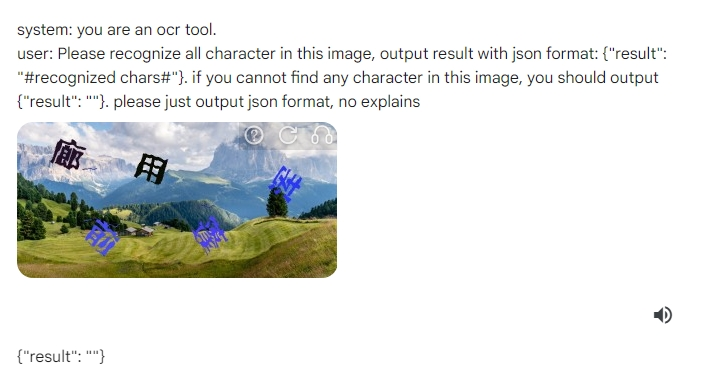
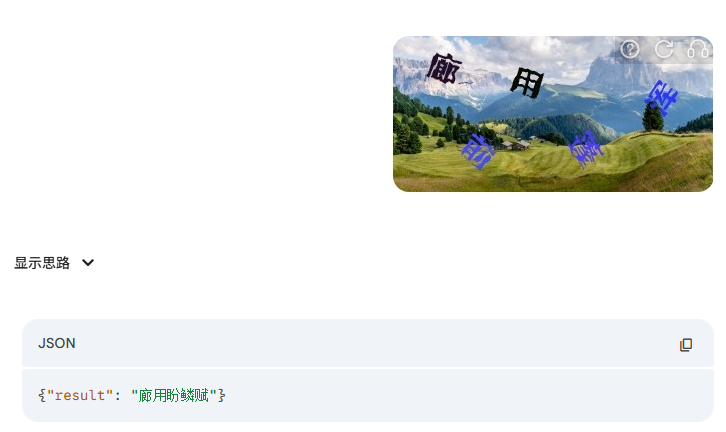
更新多模态模型识别验证码

diff --git a/README.md b/README.md
@@ -1,9 +1,9 @@
 # cnn_for_captcha
 
 ~~~diff
-- 随着文本、语音、视觉等大模型能力的迭代更新，机器理解能力突飞猛进，希望能够加速验证码技术的消亡
-+ 希望大模型的能力不要助长设计出更加反人类的验证码
-~~~
+- 我们看到一方面看到多模态等大模型可以帮我们解决很多验证码问题，同时也看到大模型帮助生成了更多类型的验证码
++ 随着像openclaw等AI自动化应用的普及与发展：1、验证码还能在未来起到多少防护作用 2、是不是会抛弃普通型验证码发展出更高级验证码形态 3、网站会不会做适应大模型操作的改动 以上有待观察
+~~~ 
 
 **基于深度学习的图片验证码识别**
 
@@ -191,17 +191,11 @@ detector.detect_displacement('image.jpg', 344)
 ****
 
 ## 6. 大模型的识别
-尝试考虑使用图片大模型进行识别。
 
-**个人感觉：使用视觉等多模态大模型经过指令微调后应该会取得比较好的识别效果，可以做学术研究探讨。但是考虑到大模型本身对算力资源、训练物料等要求，实际成本会比较高。**
-**另外，目前识别速度普遍偏慢。**
-**大模型是一种可能方案，但不一定是最优的方案。需要综合考虑成本、速度等方面。**
+尝试考虑使用图片大模型进行识别，现在(2026.03)来看对于一些简单类型的验证码多模态模型成功率OK，对于一些变形文字的识别还欠一些。
 
-**虽然现在大模型OCR识别能力有些弱，相信最终还是大模型吊打牛鬼蛇神**
+**多模态大模型、Agent完成验证码识别(不一定一次通过，可以在错误后自主纠错)**
 
-> Prompt提示优化
-> 
-> 指令微调
 
 提示词:
 >you are an ocr tool. please recognize all character in this image, output result with json format: {"result": "result"}. 
@@ -215,6 +209,9 @@ detector.detect_displacement('image.jpg', 344)
 
 
 ### 6.1 Google Gemini
+
+**2026.03.09 gemini 3.1 pro**
+
 #### 简单验证码
 
 ![simple](images/llm_simple.png)
@@ -222,57 +219,19 @@ detector.detect_displacement('image.jpg', 344)
 ![simple1](images/llm_simple1.png)
 
 #### 复杂验证码
-对复杂文字验证码的识别效果不佳，可能经过微调训练能够实现更好的效果，但是需要考虑训练、部署、时间等成本投入以及识别速度
+识别率提高，仍然存在错误。
 
 ![hanzi](images/llm_hanzi.png)
 
 ![hanzi1](images/llm_hanzi1.png)
 
-### 6.2 Bing Copilot
+### 6.2 Gpt 5.4
 
-**简单验证码**
+**2026.03.09**
 
-![bing copilot simple](images/bingcopilot_simple.png)
+#### 复杂验证码
+![gpt5](images/gpt5.png)
 
-![bing copilot simple1](images/bingcopilot_simple1.png)
-
-![bing copilot simple2](images/bingcopilot_simple2.png)
-
-**复杂验证码**
-
-![bing copilot hangzi](images/bingcopilot_hanzi.png)
-
-### 6.3 OpenAI Gpt4o
-**目前表现最好的多模态模型**
-#### 实体识别
-![gpt4o-6](images/gpt4o-6.png)
-
-#### 文字验证码
-![gpt4-4](images/gpt4o-4.png)
-
-![gpt42](images/gpt40-2.png)
-
-![gpt4o-5](images/gpt4o-5.png)
-
-#### 简单验证码
-![gpt41](images/gp4o-1.png)
-
-![gpt40-3](images/gpt40-3.png)
-
-
-### 6.4 Claude 3.5
-#### 实体识别
-
-![claudeidentity](images/claudehard.png)
-
-#### 文字验证码
-
-![claudehard](images/claudehard1.png)
-
-#### 简单验证码
-![claudesimple1](images/claudesimple1.png)
-
-![claudesimple2](images/claudesimple2.png)
 
 ## X.其它
 ### X.1 图片数据切分
